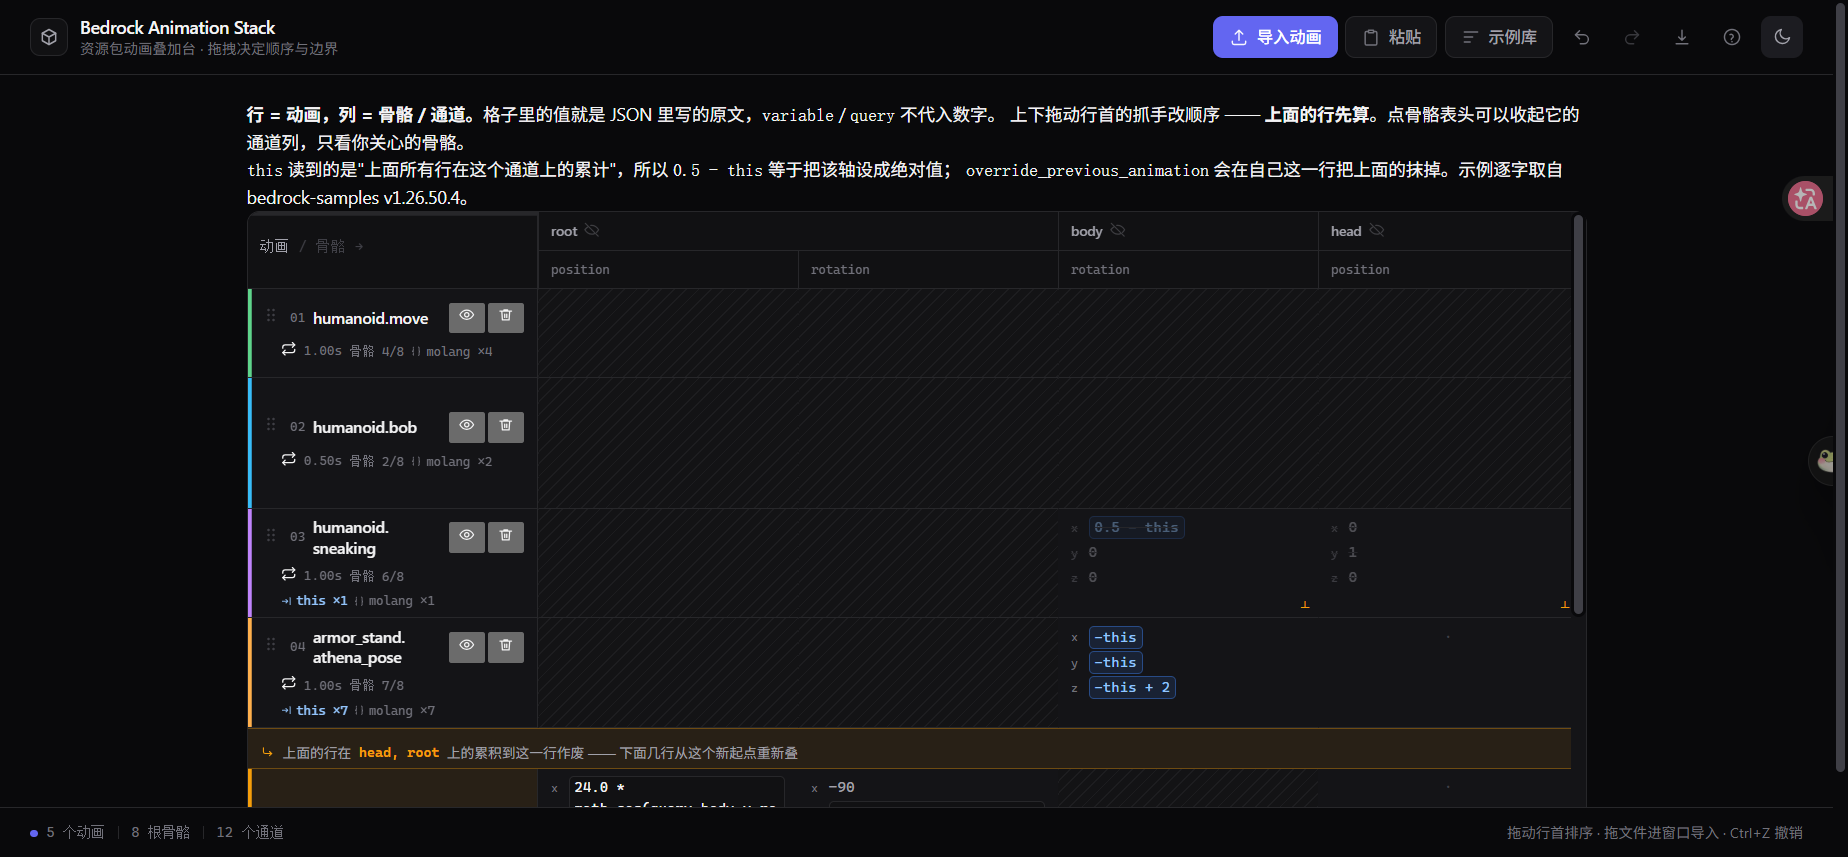
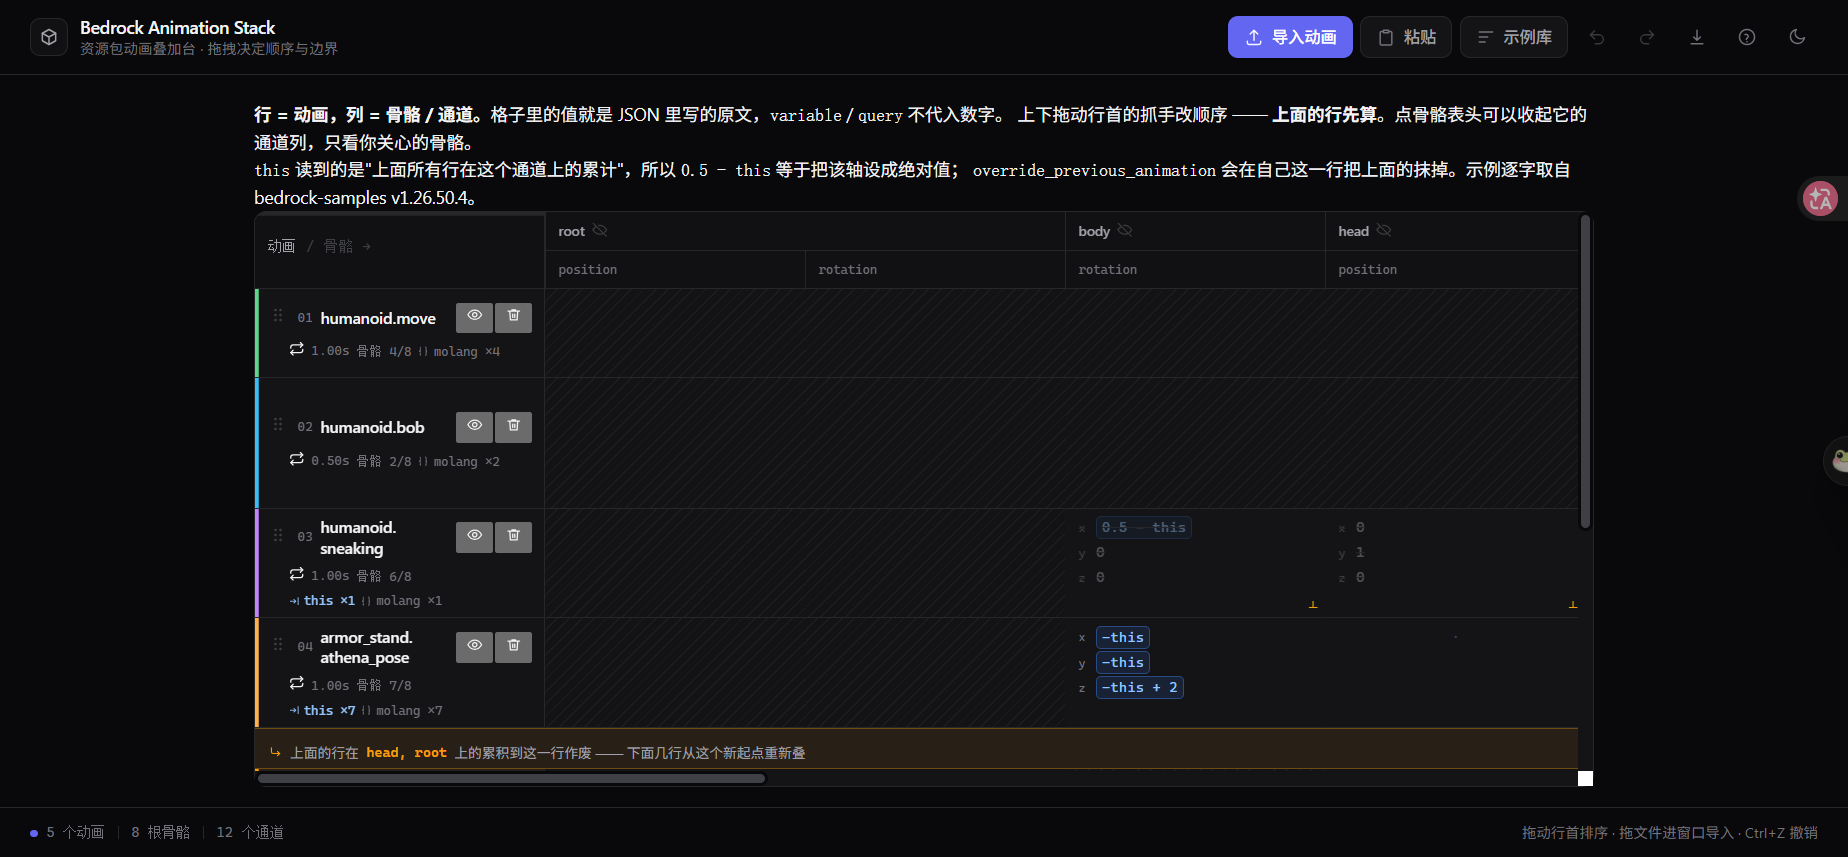
fix: 整页不再滚动，只留表格一个滚动容器，消除滚轮抢层
- body 改 flex column + overflow:hidden；.shell flex:1 min-height:0；.mwrap 吃剩余高度
  并加 overscroll-behavior:contain（滚到表尾不把手势传给页面）
- 去掉 .mwrap 写死的 max-height: calc(100vh - 168px)，底部 padding 72→56（状态栏 40 + 16 缝）
- 空栈时连 #mwrap 一起 hidden，避免 flex 撑出一块空白边框；#empty 自己铺满
- 极矮窗口（≤380px，比如放大到 200%）留退路：恢复整页滚动 + 表格固定 240px
- preview.png 重拍

diff --git a/index.html b/index.html
@@ -124,6 +124,10 @@ body {
   -webkit-font-smoothing: antialiased;
   text-rendering: optimizeLegibility;
   font-feature-settings: "cv11", "ss01";
+  /* 整页不滚：只有矩阵自己的 .mwrap 滚，避免「外层滚一点、表格滚一点」的抢滚轮 */
+  display: flex;
+  flex-direction: column;
+  overflow: hidden;
 }
 
 body.dragging { user-select: none; cursor: grabbing; }
@@ -320,7 +324,11 @@ button, input, select, textarea { font: inherit; color: inherit; }
   width: 100%;
   max-width: 1120px;
   margin: 0 auto;
-  padding: 20px 24px 72px;
+  padding: 20px 24px 56px;              /* 底部留出固定状态栏的 40px + 一点缝 */
+  flex: 1 1 auto;
+  min-height: 0;
+  display: flex;
+  flex-direction: column;
   --cols: 108px 112px repeat(3, minmax(64px, 104px)) minmax(140px, 1fr);
 }
 
@@ -332,8 +340,12 @@ button, input, select, textarea { font: inherit; color: inherit; }
   border-radius: var(--r-lg);
   background: var(--card);
   overflow: auto;
-  max-height: calc(100vh - 168px);
+  /* 唯一的滚动容器：吃掉剩余高度，并在头/尾不再把手势传给外面 */
+  flex: 1 1 auto;
+  min-height: 0;
+  overscroll-behavior: contain;
 }
+.shell > #hint, .shell > #colbar { flex: none; }
 .empty {
   display: flex;
   flex-direction: column;
@@ -345,6 +357,9 @@ button, input, select, textarea { font: inherit; color: inherit; }
   border-radius: var(--r-lg);
   background: var(--bg-2);
   text-align: center;
+  flex: 1 1 auto;
+  min-height: 0;
+  overflow: auto;
 }
 .empty .icon { width: 26px; height: 26px; color: var(--text-3); }
 .empty h3 { font-size: 14px; font-weight: 600; color: var(--text-2); }
@@ -944,7 +959,7 @@ textarea:focus { border-color: var(--accent); box-shadow: 0 0 0 3px var(--accent
    ============================================================ */
 @media (max-width: 1023px) {
   .nav { padding: 0 16px; }
-  .shell { padding: 16px 16px 72px; }
+  .shell { padding: 16px 16px 56px; }
   .legend { grid-template-columns: 96px 104px repeat(3, minmax(56px, 1fr)) 132px; }
   .row { grid-template-columns: 96px 104px repeat(3, minmax(56px, 1fr)) 132px; }
   .statusbar { padding: 0 16px; }
@@ -959,7 +974,7 @@ textarea:focus { border-color: var(--accent); box-shadow: 0 0 0 3px var(--accent
   .btn.icon-only { width: 32px; }
   .brand-text small { display: none; }
 
-  .shell { padding: 12px 12px 76px; }
+  .shell { padding: 12px 12px 52px; }
   .toolbar { top: 0; position: static; gap: 8px; padding: 8px; }
   .time { min-width: auto; font-size: 12px; }
   .track { order: 3; flex-basis: 100%; }
@@ -994,6 +1009,14 @@ textarea:focus { border-color: var(--accent); box-shadow: 0 0 0 3px var(--accent
   .statusbar .r { display: none; }
   .toasts { right: 12px; left: 12px; bottom: 48px; }
   .toast { max-width: none; }
+}
+
+@media (max-height: 380px) {
+  /* 极端矮窗口（例如放大到 200%）留条退路：整页恢复可滚，表格给固定高度，
+     否则 overflow:hidden 会把表格压没。正常高度下永远只有表格这一个滚动容器。 */
+  body { overflow: auto; }
+  .shell { flex: none; }
+  .mwrap, #empty { flex: none; height: 240px; }
 }
 
 @media (prefers-reduced-motion: reduce) {
@@ -2206,10 +2229,12 @@ function shortKey(k) {
 
 function render() {
   const host = $('#matrix');
+  const wrap = $('#mwrap');
   const empty = $('#empty');
   const stack = state.stack;
   empty.hidden = stack.length > 0;
   host.hidden = stack.length === 0;
+  wrap.hidden = stack.length === 0;      /* 空栈时连外框一起收掉，否则 flex 会撑出一块空白边框 */
   if (!stack.length) { host.innerHTML = ''; renderColbar([]); updateStatus(); return; }
 
   const { rows, groups, cols, bounds, allBones, shadow } = buildMatrix();

diff --git a/HANDOVER.md b/HANDOVER.md
@@ -1,7 +1,7 @@
 # Bedrock Animation Stack · 接手指南
 
 > 这份文档写给接手的人（或模型）。目标：读完就能改，不用重新猜需求。
-> 最后更新：**2026-11-26 15:52（接手第五次改动）** · `index.html` **2969 行 / 119,931 B**，`node --check` 通过。
+> 最后更新：**2026-11-26 15:52（接手第五次改动）** · `index.html` **2986 行 / 120,631 B**，`node --check` 通过。
 > 仓库已 `git init`（分支 `main`），接手前的基线是 commit `0eeaf25`，用 `git diff 0eeaf25` 就能看到我改了什么。
 
 ---
@@ -76,8 +76,8 @@ node D:\scripts\bedrock-anim-lab\server.js        # -> http://127.0.0.1:8765/ind
 
 ```
 D:\scripts\bedrock-anim-lab\        ← 已是 git 仓库（main）
-├─ index.html        119931 B  ← 全部交付物（HTML+CSS+JS 内联）
-├─ preview.png       148581 B  默认 5 行矩阵截图（深色，1848×857，2026-11-26 重拍：覆盖率 + 斜纹 + -this 划掉 + 撤销按钮）
+├─ index.html        120631 B  ← 全部交付物（HTML+CSS+JS 内联）
+├─ preview.png       145278 B  默认 5 行矩阵截图（深色，1848×857，2026-11-26 重拍：表格铺满到状态栏、覆盖率 + 斜纹 + -this 划掉）
 ├─ samples.png       144938 B  示例库弹窗截图（深色，含「替换整栈」按钮）
 ├─ server.js            803 B  极简静态服务（8765，no-store）
 ├─ _v1-viewer.html   124345 B  v1（3D 版）备份，不要拿去改
@@ -200,13 +200,15 @@ header.nav
   #btnDocs    说明（icon）
   #btnTheme   深浅主题（icon，内含 #icoThemeDark / #icoThemeLight）
 
-main.shell
-  #hint     两行说明（列/行是什么、this 与 override 怎么读、点骨骼表头可收起列）
-  #colbar   已隐藏骨骼提示栏（默认 hidden：`已隐藏 N 根骨骼` + 骨骼 chip + 全部显示）
-  .mwrap > #matrix   矩阵表（.mtx）
-  #empty    空状态（虚线卡片）
+body（flex column，`overflow: hidden` —— 整页不滚，只有 .mwrap 滚）
+  header.nav
+  main.shell（flex: 1 1 auto; min-height: 0; 自身也是 flex column）
+    #hint     两行说明（列/行是什么、this 与 override 怎么读、点骨骼表头可收起列）· flex: none
+    #colbar   已隐藏骨骼提示栏（默认 hidden：`已隐藏 N 根骨骼` + 骨骼 chip + 全部显示）· flex: none
+    .mwrap > #matrix   矩阵表（.mtx）· flex: 1 1 auto; min-height: 0; overscroll-behavior: contain
+    #empty    空状态（虚线卡片）· flex: 1 1 auto（空栈时 .mwrap 一起 hidden，否则会多出一块空边框）
 
-footer.statusbar
+footer.statusbar（fixed 40px，所以 .shell 底部留 56px）
   #stAnims  N 个动画（M 启用） | #stBones N 根骨骼 | #stChans N 个通道 | #stHint 拖动行首排序
 
 #modal>#modalTitle/#modalClose/#modalBody/#modalFoot
@@ -256,7 +258,7 @@ footer.statusbar
 | `chanHTML(ch, base, cuts)` | 一个通道 → x/y/z 三行；`cuts[ax]` 是抵消行号时该轴加 `.cut` + 右侧小 `⟂`；关键帧**全部列出**、一帧一行（不再 slice），整通道被抵消时加 `.dead-keys` |
 | `badgesFor(item)` / `rowHead(r, allBones)` | 行首：抓手、序号、动画名、时长、**覆盖率 `骨骼 4/8`**（title 列涉及/未涉及）、loop 图标、chips（override / this / molang / keyframe / fx）、眼睛（启停）、垃圾桶（删除） |
 | `cellHTML(row, col, bounds, shadow)` | 单格：没有该通道时输出 `·`（`.none`）或斜纹（`.bnone`，连骨骼都没有）；有值时按 override（整格 `.dead`）与 `shadow`（逐轴 `.cut`）上标记 |
-| `render()` | 重建整张表 + 写 `--ncol`（列数）+ 切换 `#empty` + 调用 `renderColbar()` |
+| `render()` | 重建整张表 + 写 `--ncol`（列数）+ 切换 `#empty` / `#mwrap`（空栈时两个都 hidden）+ 调用 `renderColbar()` |
 | `renderColbar(allBones)` | 画「已隐藏 N 根骨骼」栏：只列当前数据里真的存在、且被隐藏的骨骼；每个是一个 `data-show` 按钮，右侧「全部显示」 |
 | `hideBone(bone)` / `showBone(bone)` | 隐藏 / 恢复单根骨骼的列，`render(); save()`，隐藏时 toast 提示去哪恢复 |
 | `updateStatus()` | 写状态栏（**只统计启用行的骨骼/通道，不受隐藏影响**） |
@@ -324,6 +326,7 @@ const LS_KEY = 'bedrock-anim-lab.v4';
 - 被 `- this` 抹掉的单轴：`.vec span.cut` 透明 42% + 删除线 + 行尾 `<em class="cutmark">⟂</em>`；三条轴全中时改用整格 `.dead`（省掉三个 ⟂，和 override 观感统一）
 - **行头是 sticky 的，背景必须不透明**：`.rowh.ov` 以前用 `--amber-soft`（9% alpha），横向滚动时会透出下面的格子文字、看起来像重影；现在改成 `color-mix(in srgb, var(--amber) 9%, var(--card))` 的实色。以后给 sticky 元素加底色，别直接用带 alpha 的 token
 - 行头 `cursor: grab`（整块可拖），但 `.key` 和 `.acts button` 单独 `cursor: pointer`；抓手图标的视觉尺寸不变，靠 `padding:4px` + 负 margin 把热区撑到 24×29
+- **滚动模型：全页只有一个滚动容器**。`body` 是 `flex column + overflow: hidden`，`.shell` 是 `flex: 1 1 auto; min-height: 0` 的 flex column，`.mwrap` 吃剩余高度并 `overscroll-behavior: contain` —— 这样滚轮/触控板永远只滚表格，滚到头也不会把手势传给页面（以前 `body` 会跟着滚几十像素，看起来像「两层抢滚轮」）。`.mwrap` 不再写死 `max-height: calc(100vh - 168px)`
 - 断点：1023px、767px（767 以下隐藏部分说明、缩列宽）
 
 状态语义色：`--accent`（交互）/ 琥珀（override 边界）/ 蓝 `#93C5FD`（`this`）/ 灰（被抹掉）。
@@ -416,10 +419,19 @@ const LS_KEY = 'bedrock-anim-lab.v4';
 12. **覆盖率与斜纹**：`move` 行头是 `骨骼 4/8`，`root/body/head` 的格子是斜纹；`sneaking` 的 `rightitem` 是斜纹，但 `leftleg.rotation` 这种「有骨骼没通道」是 `·`。
 13. **拖拽范围**：在行头任意位置（动画名、序号、时间那一行）按住往上下拖 5px 以上就能换序，不必瞄准抓手；轻点动画名仍然只是开/关，不会误移。
 14. **横向滚动**：把矩阵横向滚到底，行头（尤其 `player.sleeping` 那条浅琥珀底）必须完全不透明，不能透出下面格子的文字。
+15. **滚轮不分层**：页面本身不滚（`documentElement.scrollHeight === clientHeight`），滚轮在表格上只滚表格、滚到表尾也不会带动整页；在说明文字上滚滚轮，页面纹丝不动。
 
 ---
 
 ## 14. 变更记录（接手后）
+
+### 2026-11-26 16:12 · 修「外面滚一层、表格滚一层」的抢滚轮
+
+- 原因：`body` 会滚（`.shell` 底部 padding 72px + `.mwrap` 的 `max-height: calc(100vh - 168px)`，整页比视口高约 70px），而表格自己也是滚动容器。滚轮在表上滚到尽头会把剩余的滚动量传给 body；在说明文字上滚又会让整页动、表格跟着位移。
+- 改法：`body` 改成 `flex column + overflow: hidden`；`.shell` = `flex: 1 1 auto; min-height: 0` 的 flex column；`.mwrap` = `flex: 1 1 auto; min-height: 0; overscroll-behavior: contain`，去掉写死的 `max-height`；底部 padding 72 → 56（状态栏 fixed 40 + 16 缝）。
+- 连带修：空栈时 `.mwrap` 会因 `flex: 1` 撑出一块空白边框，`render()` 里现在连 `#mwrap` 一起 hidden，`#empty` 自己 `flex: 1` 铺满。
+- 实测：`docScroll [685,685]` / `bodyScroll [685,685]` / `bodyCanScroll false`，`mwrap` 高 460、内容 784（只有它在滚），`overscroll-behavior: contain`，表格底边到状态栏 16px。
+- `preview.png` 重拍（表格现在铺满到状态栏上方）。
 
 ### 2026-11-26 15:52 · 行头可拖范围放大 + 修 sticky 行头透明
 
